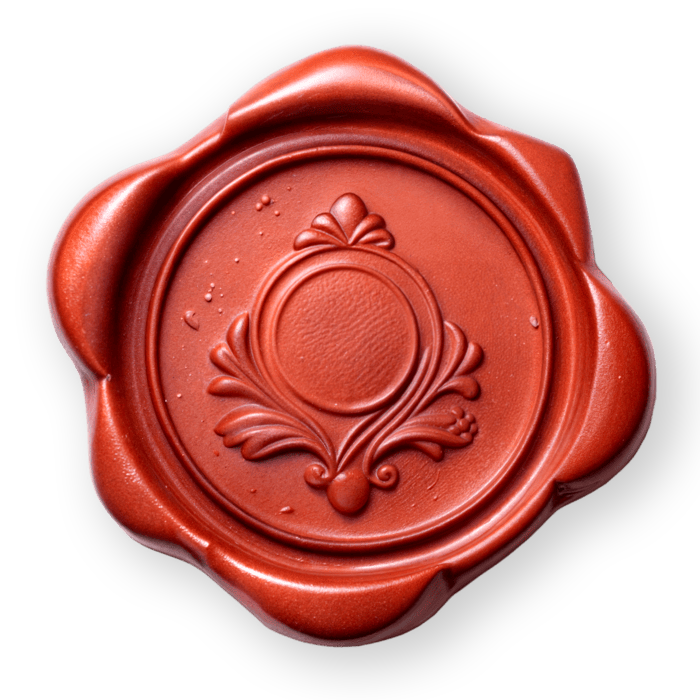
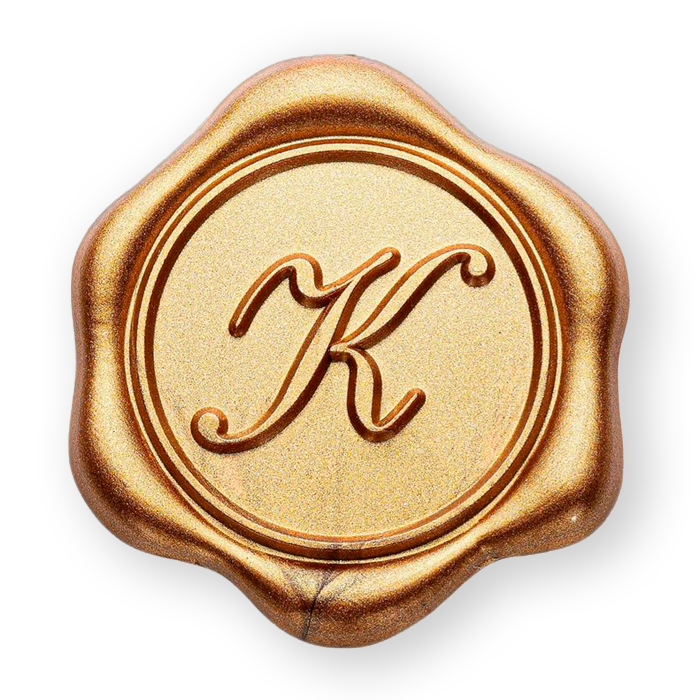
feat: update letter content and background images, adjust font styles

diff --git a/src/AppLetter.tsx b/src/AppLetter.tsx
@@ -28,7 +28,7 @@ const LETTERS: Record<string, Letter> = {
     name: "Alice",
     title: "Vintage Letter #1",
     body: `
-Дорогие Лиза и Миша,
+Дорогие Елизавета и Михаил,
 
 Приглашаем Вас на день рождения!
 Просим заполнить анкеты!
@@ -85,7 +85,7 @@ async function runEnvelopeSequence(params: {
   
   await sleep(6000);
 
-  navigate("/home");
+  //navigate("/home");
 }
 
 /* ==========================================================================
@@ -510,7 +510,7 @@ if (!letterId || !isValidUUID(letterId)) {
         style={{
           perspective: 2000,
           backgroundImage:
-            "url('https://png.pngtree.com/thumb_back/fw800/background/20231015/pngtree-vintage-wood-table-texture-background-image_13634695.png')",
+            "url('https://i.pinimg.com/736x/f2/79/a2/f279a2af62db9c95bccef5088b7d2a9e.jpg')",
           backgroundSize: "cover",
           backgroundPosition: "center",
         }}
@@ -690,9 +690,10 @@ if (!letterId || !isValidUUID(letterId)) {
               style={{
                 transformOrigin: "center",
                 backgroundImage:
-                  "url('https://img.magnific.com/premium-photo/old-grunge-parchment-paper-texture-background_118047-7213.jpg?w=2000')",
+                  "url('https://i.pinimg.com/1200x/c8/0c/d5/c80cd5975daaf90a7773b08c8ec10292.jpg')",
                 backgroundSize: "cover",
                 backgroundPosition: "center",
+                fontFamily: "Montserrat",
               }}
               className="
                 absolute
@@ -713,12 +714,12 @@ if (!letterId || !isValidUUID(letterId)) {
             >
               {/* Letter Header */}
               <div className="mb-4 text-xs uppercase tracking-[0.3em] text-stone-400">
-                Приглашение
+              
               </div>
 
               {/* Letter Content */}
               {showText && (
-                <div className="whitespace-pre-line font-serif text-[15px] leading-relaxed text-stone-700">
+                <div className="whitespace-pre-line text-[14px] leading-relaxed text-stone-700">
                   {displayedText}
                   <span className="animate-pulse">|</span>
                 </div>

diff --git a/src/index.css b/src/index.css
@@ -1,4 +1,5 @@
 @import "tailwindcss";
+@import url('https://fonts.googleapis.com/css2?family=Montserrat:wght@700&display=swap');
 
 body {
     background-color: #171717;